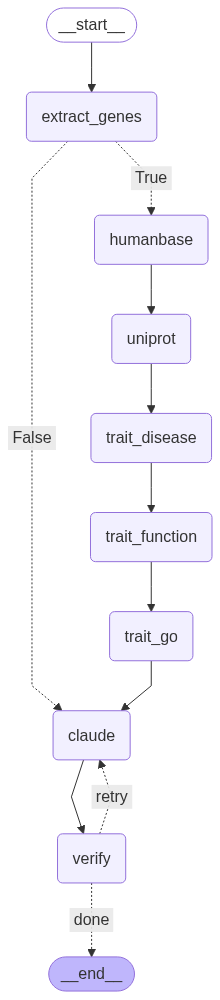
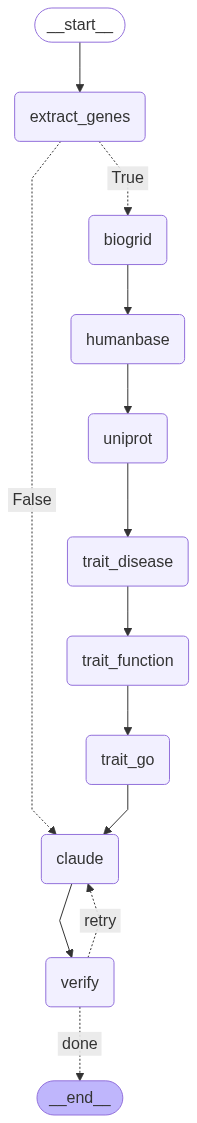
Added BioGRID node

diff --git a/tool_biogrid.py b/tool_biogrid.py
@@ -1,0 +1,106 @@
+"""
+Author: Keerthana Nallamotu <kn6412@princeton.edu>
+Contributors: 
+Created: 2024-06-27
+Updated: 2025-06-30
+
+
+Description: 
+
+Tool to query BioGRID interactions with a list of gene symbols"""
+
+from __future__ import annotations
+import requests
+import time
+from typing import Any, Dict, List, Optional
+from config import BioGRID_API_KEY
+from tool_humanbase import _fetch_predictions_HB, _filter_predictions_HB, _symbol_to_entrez
+from state import State 
+
+DEBUG=True
+
+
+def _fetch_predictions_BioGRID(gene_of_interest: str) -> List[Dict[str, float]]:
+    """Download BioGRID functional predictions for a given gene symbol."""
+    if DEBUG:
+        print(f"[BioGRID] Fetching predictions for gene symbol: {gene_of_interest}")
+
+    accesskey = BioGRID_API_KEY
+    
+    # API endpoint
+    url = "https://webservice.thebiogrid.org/interactions/"
+    params = {
+        "accesskey": accesskey,
+        "geneList": gene_of_interest,
+        "format": "json",
+        "includeInteractors": "true"
+    }
+    
+    response = requests.get(url, params=params)
+    data = response.json()
+    
+    output_list = set()
+    
+    for interaction_id, interaction_info in data.items():
+        
+        if gene_of_interest == interaction_info["OFFICIAL_SYMBOL_A"]:
+            interactor = interaction_info["OFFICIAL_SYMBOL_B"]
+        else:
+            interactor = interaction_info["OFFICIAL_SYMBOL_A"]
+    
+        output_list.add(interactor)
+
+    return output_list
+
+
+def bioGRID_predictions_agent(state: "State") -> "State":
+    """
+    LangGraph node that annotates each gene with bioGRID interactions.
+
+    Parameters
+    ----------
+    state
+        Current graph state.
+
+    Returns
+    -------
+    State
+        Updated state with the `"bioGRID_predictions"` field filled.
+    """
+    preds = state.get("bioGRID_predictions", {}).copy()
+
+    for gene in state.get("genes", []):
+        if gene in preds:
+            continue
+
+        preds[gene] = {}
+
+        try:
+            interactions = _fetch_predictions_BioGRID(gene)
+        except Exception as exc:
+            print(f"[BioGRID] {gene}: {exc}")
+        else:
+
+            for interactor in list(interactions)[:30]:
+                entrez = _symbol_to_entrez(interactor)
+                if not entrez:
+                    functions_list = []
+                    continue
+        
+                try:
+                    tmp = _fetch_predictions_HB(entrez)
+                except Exception as exc:
+                    functions_list = []
+                else:
+                    functions_list = _filter_predictions_HB(tmp, threshold=0.95)
+
+                if functions_list:
+                    terms = [hit["term"] for hit in functions_list if "term" in hit]
+                    if terms:
+                        preds[gene][interactor] = {'functions': terms[:30]}
+        
+        time.sleep(0.3)  # courteous pause
+
+    return {
+        **state,
+        "bioGRID_predictions": preds}

diff --git a/conditioned_claude.py b/conditioned_claude.py
@@ -32,8 +32,7 @@ def conditioned_claude_node(state: "State") -> "State":
     
     # Build CONTEXT payload
     gene_payload: List[Dict[str, Any]] = []
-    gene_list = list(set(state.get("genes", [])))
-    for g in gene_list:
+    for g in state.get("genes", []):
         gene_info: Dict[str, Any] = {"gene": g}
 
         diseases = state.get("gene_disease_traits", {}).get(g, [])
@@ -46,23 +45,15 @@ def conditioned_claude_node(state: "State") -> "State":
             if terms:
                 gene_info["functions"] = terms[:30]
 
+        biogrid_hits = state.get("bioGRID_predictions", {}).get(g, [])
+        if biogrid_hits:
+            if terms:
+                gene_info["interacting_genes"] = biogrid_hits
+
         gene_payload.append(gene_info)
-        
-        # Add associations to the gene info
-        associations = state["gwas_associations"].get(g, [])
-        if associations:
-            gene_info["gwas_associations"] = associations
-            
-        # Add UniProt entries
-        uniprot_entries_base = state.get("uniprot_entries_base", {}).get(g, [])
-        if uniprot_entries_base:
-            gene_info["uniprot_entries_base"] = uniprot_entries_base
-        uniprot_entries_gwas = state.get("uniprot_entries_gwas", {}).get(g, [])
-        if uniprot_entries_gwas:
-            gene_info["uniprot_entries_gwas"] = uniprot_entries_gwas
 
-    context_block = json.dumps(gene_payload, separators=(",", ":"))
-
+    
+    context_block: str = json.dumps(gene_payload, separators=(",", ":"))
     if DEBUG:
         print("[conditioned_claude_node] context length:", len(context_block))
     if len(context_block) > N_CHARS:
@@ -73,7 +64,6 @@ def conditioned_claude_node(state: "State") -> "State":
     system_msg: str = (
         "You are a biology data analyst. Answer strictly with facts you can "
         "point to inside CONTEXT. Respond only with JSON with keys answer and evidence. Ensure proper JSON format. "
-        "Produce raw json output. I don't want markdown."
         "The 'evidence' field must always be a list of short strings."
     )
     user_question: str = state["messages"][-1]["content"]
@@ -81,7 +71,7 @@ def conditioned_claude_node(state: "State") -> "State":
     raw = claude_call(
         model=CONDITIONED_MODEL,
         temperature=0,
-        max_tokens=20000,
+        max_tokens=5000,
         system=system_msg,
         messages=[{"role": "user", "content": f"User asked: {user_question}\n\nCONTEXT:\n{context_block}"}],
     )

diff --git a/graph_builder.py b/graph_builder.py
@@ -15,6 +15,7 @@ from typing import Callable
 
 from state import State
 from entity_extraction import gene_extraction_node, has_genes
+from tool_biogrid import bioGRID_predictions_agent
 from tool_humanbase import humanbase_predictions_agent
 from tool_uniprot import (
     uniprot_node,
@@ -23,7 +24,6 @@ from tool_uniprot import (
     trait_GO_extraction_node,
     has_uniprot_entries,
 )
-from tool_gwas import gwas_associations_agent
 from conditioned_claude import conditioned_claude_node
 from verify import verify_evidence_node
 
@@ -40,29 +40,26 @@ def build_graph() -> Callable[[State], State]:
     g.add_conditional_edges(
         "extract_genes",
         has_genes,
-        {True: "humanbase", False: "claude"},
+        {True: "biogrid", False: "claude"},
     )
 
     # Tool nodes
+    g.add_node("biogrid", bioGRID_predictions_agent)
     g.add_node("humanbase", humanbase_predictions_agent)
-    g.add_node("uniprot_base", uniprot_node)
-    g.add_node("uniprot_gwas", uniprot_node)
+    g.add_node("uniprot", uniprot_node)
     g.add_node("trait_disease", trait_disease_extraction_node)
     g.add_node("trait_function", trait_function_extraction_node)
     g.add_node("trait_go", trait_GO_extraction_node)
-    g.add_node("gwas", gwas_associations_agent)
 
-    g.add_edge("humanbase", "uniprot_base")
-    g.add_edge("uniprot_base", "trait_disease")
+    g.add_edge("biogrid", "humanbase")
+    g.add_edge("humanbase", "uniprot")
+    g.add_edge("uniprot", "trait_disease")
     g.add_edge("trait_disease", "trait_function")
     g.add_edge("trait_function", "trait_go")
-    g.add_edge("trait_go", "gwas")
-    g.add_edge("gwas", "uniprot_gwas")
-    g.add_edge("uniprot_gwas", "claude")
-    
+
     # Main LLM
     g.add_node("claude", conditioned_claude_node)
-    # g.add_edge("trait_go", "claude")  # normal path
+    g.add_edge("trait_go", "claude")  # normal path
 
     # Verification loop
     g.add_node("verify", verify_evidence_node)

diff --git a/tool_uniprot.py b/tool_uniprot.py
@@ -89,22 +89,15 @@ def extract_GO_from_uniprot_entry(entry: Dict) -> List[str]:
 
 def uniprot_node(state: "State") -> "State":
     """Download UniProt entries for every gene symbol."""
-    base_genes = list(set(state.get("genes", [])))
-    gwas_linked_genes = list(set(state.get("gwas_linked_genes", [])))
-    genes = list(set(base_genes + gwas_linked_genes))
-    
-    uniprot_entries_base: Dict[str, Dict] = {}
-    uniprot_entries_gwas: Dict[str, Dict] = {}
+    genes = state.get("genes", [])
+    uniprot_entries: Dict[str, Dict] = {}
 
     for gene in genes:
-        entry_base = get_uniprot_entry_for_gene(gene)
-        if entry_base:
-            uniprot_entries_base[gene] = entry_base
-        entry_gwas = get_uniprot_entry_for_gene(gene)
-        if entry_gwas:
-            uniprot_entries_gwas[gene] = entry_gwas
+        entry = get_uniprot_entry_for_gene(gene)
+        if entry:
+            uniprot_entries[gene] = entry
 
-    return {**state, "uniprot_entries_base": uniprot_entries_base, "uniprot_entries_gwas": uniprot_entries_gwas}
+    return {**state, "uniprot_entries": uniprot_entries}
 
 
 def trait_disease_extraction_node(state: "State") -> "State":

diff --git a/state.py b/state.py
@@ -22,15 +22,12 @@ class State(TypedDict, total=False):
     genes: Annotated[List[str], operator.add]
 
     # UniProt / HumanBase look-ups
-    uniprot_entries_base: Annotated[Dict[str, Dict], operator.or_]
-    uniprot_entries_gwas: Annotated[Dict[str, Dict], operator.or_]
+    uniprot_entries: Annotated[Dict[str, Dict], operator.or_]
     gene_disease_traits: Annotated[Dict[str, List[str]], operator.or_]
     gene_function_traits: Annotated[Dict[str, List[str]], operator.or_]
     gene_GO_traits: Annotated[Dict[str, List[str]], operator.or_]
     humanbase_predictions: Annotated[Dict[str, List[Dict[str, Any]]], operator.or_]
-    
-    # GWAS associations
-    gwas_associations: Annotated[Dict[str, Dict[str, Any]], operator.or_]
+    bioGRID_predictions: Annotated[Dict[str, Dict[str, Dict[str, List[str]]]], operator.or_]
 
     # LLM bookkeeping
     context_block: Annotated[str, operator.add]

diff --git a/config.py b/config.py
@@ -18,3 +18,4 @@ CONDITIONED_MODEL: str = "claude-sonnet-4-20250514"
 VERIFY_MODEL: str = "claude-3-haiku-20240307"
 
 ANTHROPIC_API_KEY: str = os.environ["ANTHROPIC_API_KEY"]
+BioGRID_API_KEY: str = os.environ["BioGRID_API_KEY"]

diff --git a/README.md b/README.md
@@ -6,6 +6,7 @@ To run sample requests:
 ```
 # install environment from requirements.txt
 export ANTHROPIC_API_KEY=[..your key here..]
+export BioGRID_API_KEY=[..your key here..]
 python -m run
 ```
 
